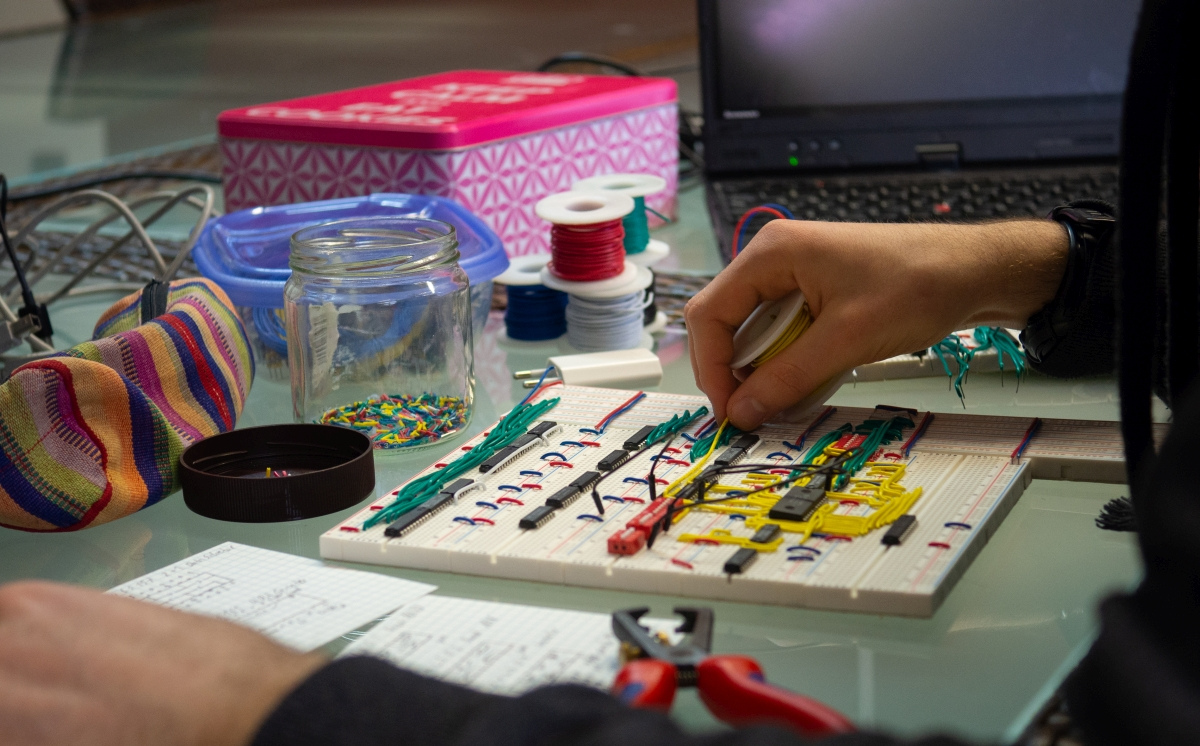
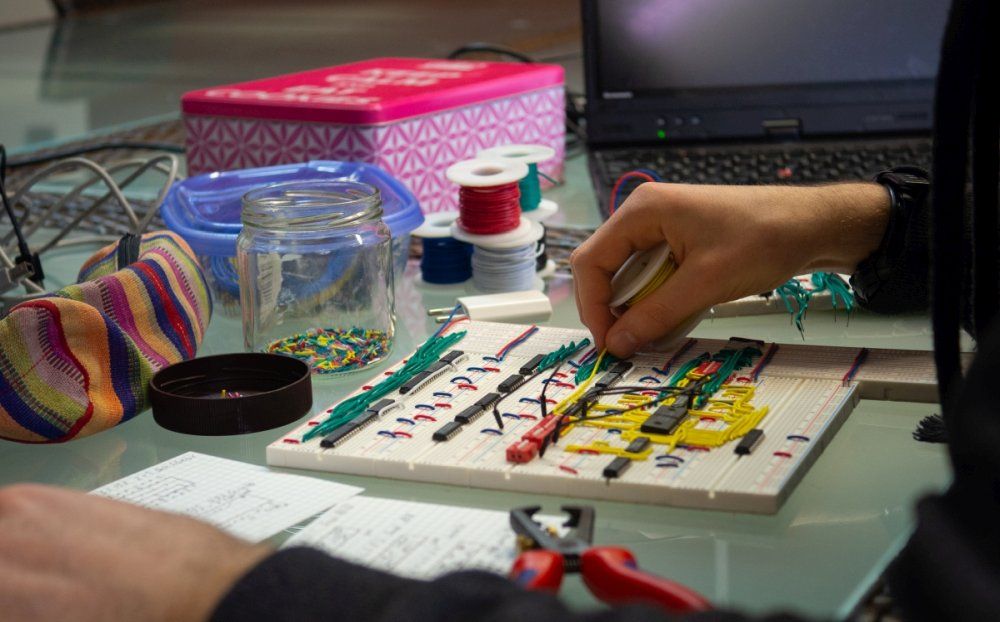
Scaled Down Pictures

diff --git a/_posts/2019-03-16-arduino-day-2019.md b/_posts/2019-03-16-arduino-day-2019.md
@@ -6,13 +6,13 @@ categories:
 author_staff_member: anna
 ---
 
-![Man](/images/arduinoday2019/arduinod19_zertifikat.png)
+![Man](/images/arduinoday2019/arduinod19_zertifikat.jpg)
 
 Arduino Day ist die Geburtstagsfeier von Arduino, ausgetragen in Form von weltweiten Community-Events.
 
 Arduino ist eine Open-Source-Plattform um Mikrokontroller und deren Programmierung zug&auml;nglicher zu gestalten und den Menschen nahezubringen.
 
-![](/images/arduinoday2019/arduinod19_map.png)
+![](/images/arduinoday2019/arduinod19_map.jpg)
 
 Wir haben die Chance genutzt und gemeinsam an verschiedenen Projekten gearbeitet.
 
